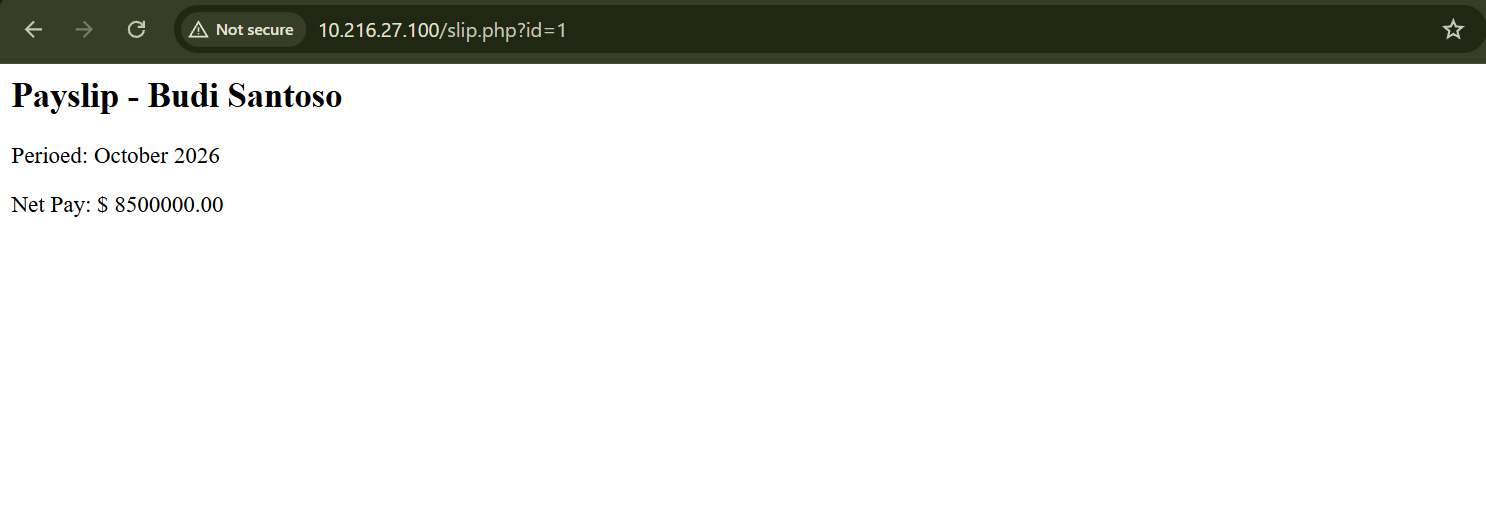
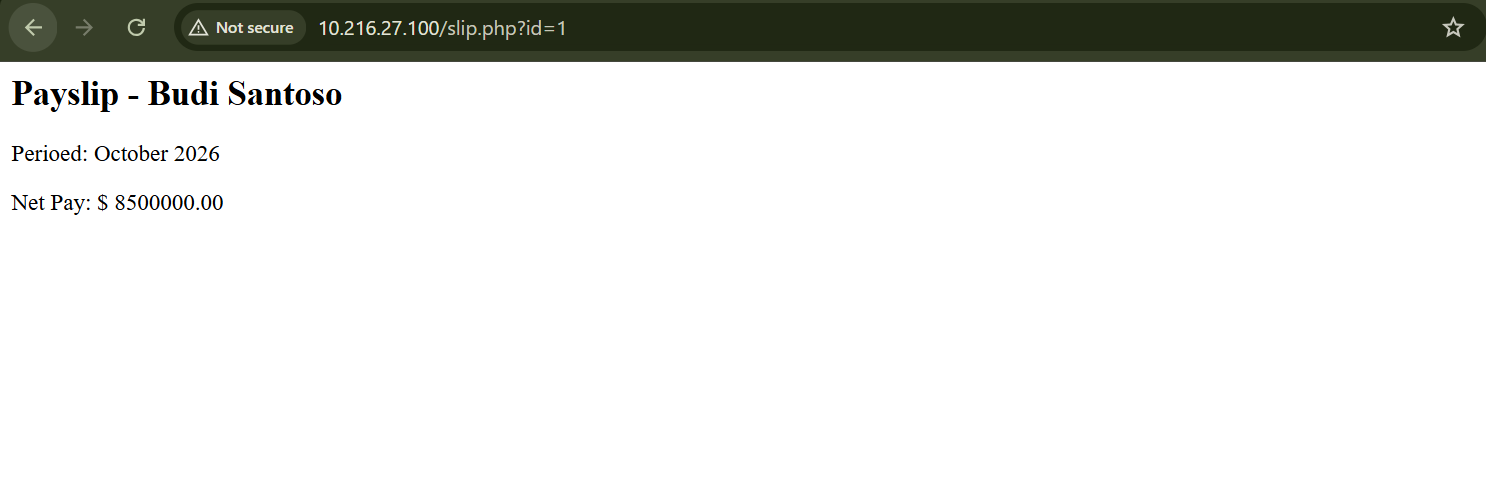
v2.0.0 Update

diff --git a/v2.0.0/v2.4.0-incident-report.md b/v2.0.0/v2.4.0-incident-report.md
@@ -3,7 +3,7 @@
 <div align="center">
 <img src="https://img.shields.io/badge/Phase-Incident_Report-1F4068?style=for-the-badge&logo=wazuh&logoColor=white" />
 <img src="https://img.shields.io/badge/Format-SOC_Style-8E44AD?style=for-the-badge" />
-<img src="https://img.shields.io/badge/Status-In_Progress-D29922?style=for-the-badge" />
+<img src="https://img.shields.io/badge/Status-Done-1F883D?style=for-the-badge" />
 </div>
 
 <div align="center"><sub>Written as if presenting findings to a supervisor, not as a lab writeup. This is the document interviewers will read most carefully.</sub></div>
@@ -12,9 +12,9 @@
 
 ## 📄 1. Executive Summary
 
-**TODO — write 3-4 sentences, in your own words, answering:** what was tested, what was found, and what is the current risk level. No jargon, as if explaining to a non-technical manager.
-
-> _(your summary here)_
+> Two new features were added to the TechSecure employee portal: profile photo upload and direct payslip access by ID. Both work correctly for normal use, but both were built with mistakes that are easy to make under deadline pressure — the payslip page doesn't check whether the person asking actually owns the payslip, and the photo upload passes the filename straight into a system command without checking it first. Testing confirmed that any logged-in employee can read every other employee's salary, that the payslip's database query can be manipulated, and that a crafted filename can get executed as a command on the server. None of these were visible to our SIEM's default alerting, because every one of them produces a normal-looking, successful web request — the kind of request a security tool trained to spot *errors* has no reason to flag. Three custom detection rules were written and confirmed, through a cold retest, to catch all three attacks reliably while staying silent during normal use. The unrestricted file-extension upload path (e.g. uploading a `.php` file) was identified in code review but has not yet been exploited or tested, and remains an open item.
+>
+> **Note:** this paragraph was drafted as a starting point — rewrite it in your own words before using it anywhere an interviewer might ask you to explain it live.
 
 ---
 
@@ -24,7 +24,7 @@
 |---|---|
 | System tested | TechSecure portal, `10.216.27.100` |
 | Features in scope | Profile photo upload, payslip access by ID |
-| Testing window | _____________ (your dates) |
+| Testing window | _____________ (fill in the actual calendar dates this ran — not recorded with real-world dates during the lab sessions) |
 | Tester | Pagar Kristian Panjaitan |
 | Monitoring tool | Wazuh 4.14 |
 
@@ -36,11 +36,11 @@ Fill in one row per weakness confirmed in v2.1.1 and v2.2.1. Use CVSS-style seve
 
 | # | Finding | Severity | Status Before Detection Rules | Status After (v2.3.1) |
 |---|---|---|---|---|
-| 1 | IDOR on `slip.php` | High (any logged-in user reads any payslip) | Undetected | |
-| 2 | SQL Injection on `slip.php` | | | |
-| 3 | Unrestricted file upload on `upload-photo.php` | | | |
-| 4 | OS Command Injection via filename | | | |
-| 5 | Directory listing enabled on `/profile_photos/` | | | |
+| 1 | IDOR on `slip.php` — any logged-in user reads any other employee's payslip by changing the `id` parameter | **High** (broken access control; salary data of every employee exposed to every other logged-in employee) | Undetected — confirmed the request reached `access.log` with a 200 status, confirmed independently that Wazuh's default ruleset returned no alert for it | **Detected** — rule `100102` fires on the 3rd distinct `id` request from the same source within 60s. Confirmed on cold retest, zero false positives on a single normal view |
+| 2 | SQL Injection on `slip.php` — `$id` concatenated directly into the SQL query, no prepared statement | **High** (unauthorized data read via a manipulated query; stacked/destructive queries not possible since the code uses `mysqli_query()`, not `multi_query()`, so the real-world impact is limited to reading, not destroying, data) | Undetected — same reason as above, status 200, nothing for a generic rule to flag | **Detected** — rule `100100` fires on injection-pattern keywords (`OR`/`UNION`/`SELECT`/`--`/quotes) in the URL. Confirmed on cold retest (36 hits across repeated submissions), zero false positives on normal payslip access |
+| 3 | Unrestricted file upload on `upload-photo.php` — no extension or MIME-type check before saving the file | **Medium (unconfirmed severity)** — if an attacker could upload and then execute a `.php` file, this escalates to Critical (remote code execution), but that chain has not been exploited or tested | Not tested yet | Not tested yet — no detection rule exists for this specific path either, since nothing was confirmed to detect. **Open gap**, carried forward from v2.2.1/v2.3.1 |
+| 4 | OS Command Injection via upload filename — the raw filename is concatenated into a `shell_exec()` call with no sanitization | **Critical** (arbitrary filename content reaches a shell; confirmed the shell splits the filename at `;` and attempts to execute what follows as a separate command) | Undetected — the ImageMagick failure in `error.log` has no Apache-style prefix, so it was never even decoded as a web event, let alone evaluated by a web-related rule | **Detected** — rule `100103` matches the `convert-im6` failure signature. Confirmed on cold retest, zero false positives on a normal upload. (Detects a side-effect of the attack, not the injection itself — see honest limitations in v2.3.0) |
+| 5 | Directory listing enabled on `/profile_photos/` — every uploaded file is browsable | **Low** (information exposure; becomes more serious combined with finding 3, since an uploaded script would also be easy to find and access) | Undetected — not a web-application-logic issue a log-based rule naturally covers, and no rule was written to specifically flag directory-listing requests | **No rule written** — out of scope for the three rules built in v2.3.0. **Open gap**; the real fix is disabling directory listing in Apache config (see Recommendations), not a detection rule |
 
 For each finding, link back to where the evidence lives:
 - Code and initial discovery: [v2.1.1](./v2.1.1-vulnerable-features.md)
@@ -52,13 +52,17 @@ For each finding, link back to where the evidence lives:
 
 ## 🛡 4. Recommendations
 
-**TODO — write these in your own words.** For each finding, what is the actual fix (not just "add detection" — detection is not remediation)? For example:
-- IDOR → check that the logged-in user's session matches the record being requested, not just that *a* session exists.
-- SQLi → use prepared statements, same as `index.php` already does.
-- Upload → validate file content (not just extension), store uploads outside the web root or with randomized non-executable names, disable directory listing.
-- Command injection → never pass user input to `shell_exec()`; if resizing is needed, use a PHP image library (e.g. GD or Imagick's PHP bindings) instead of shelling out.
+Detection (the three Wazuh rules) tells us *when* these attacks happen again — it does not fix the underlying code. Each finding still needs an actual remediation:
 
-> _(your recommendations here, one per finding)_
+| # | Finding | Recommended Fix |
+|---|---|---|
+| 1 | IDOR on `slip.php` | Add an ownership check: before returning a payslip, verify the `id` requested belongs to the employee tied to the current session (e.g. `WHERE id = ? AND employee_id = ?` using the session's own employee ID), instead of trusting any `id` a logged-in session happens to send. |
+| 2 | SQL Injection on `slip.php` | Switch to a prepared statement with a bound parameter, the same pattern `index.php` already uses for login (`mysqli_prepare()` / bound `?` placeholder) instead of string concatenation into the query. |
+| 3 | Unrestricted file upload | Validate the file's actual content (not just the filename extension) — e.g. check the real MIME type/magic bytes with `finfo`, reject anything that isn't a genuine image, and store uploaded files outside the web-servable directory, or under a randomly generated name with no extension that would ever be executed. |
+| 4 | OS Command Injection via filename | Never build a shell command by concatenating user-controlled input. Use a PHP image-processing library's native API (e.g. the `Imagick` PHP extension, or GD) to resize the image in-process instead of shelling out to `convert`. If shelling out is unavoidable, use `escapeshellarg()` on every user-controlled argument — but switching off `shell_exec()` entirely is the stronger fix. |
+| 5 | Directory listing on `/profile_photos/` | Disable Apache's directory indexing for that path (`Options -Indexes` in the vhost config or a local `.htaccess`), so the folder's contents can't be browsed even if someone guesses the URL. |
+
+> **Note:** the technical fixes above are standard remediation for these CWE classes and are safe to use as-is. What you should personalize before an interview is *how you'd prioritize them* — for example, which one you'd fix first given limited time, and why.
 
 ---
 
@@ -66,22 +70,39 @@ For each finding, link back to where the evidence lives:
 
 | Date | Event |
 |---|---|
-| | Vulnerable features deployed |
-| | Wazuh monitoring verified |
-| | Attacks simulated |
-| | Detection rules written |
-| | Retest confirmed detection |
+| _____________ | Two vulnerable features (`upload-photo.php`, `slip.php`) deployed on top of the hardened v1.1.0 baseline (snapshot `03-TechSecure v2.1.1 Vulnerable`) |
+| _____________ | Wazuh manager/indexer/dashboard installed, agent connected and confirmed active (snapshot `04-wazuh-agent-connected`), Apache logs verified reaching the SIEM |
+| _____________ | All three attacks (IDOR, SQL injection, command injection via upload) simulated and confirmed exploitable; none alerted under the default ruleset (snapshot `05-post-attack-simulation`) |
+| _____________ | Three custom rules (`100100`, `100101`/`100102`, `100103`) written in `local_rules.xml`; rule `100103` initially failed to fire and was debugged with `wazuh-logtest`, root-caused to an `if_group web` condition excluding an undecoded log line, then fixed |
+| _____________ | Cold retest of all three rules plus a false-positive check on normal use — all three confirmed firing, zero false positives (one invalid "No results" from a leftover filter pill caught and redone correctly) |
+
+> Fill in the actual calendar dates — these weren't logged with real-world timestamps during the lab sessions, only VM snapshot names.
 
 ---
 
 ## 🎓 6. Lessons Learned
 
-**TODO — this is the most important section for an interview. Answer honestly:**
-1. What surprised you during this exercise?
-2. What would you do differently if building this feature for a real company?
-3. What's still a gap, even after the detection rules (see the "Honest limitations" note in v2.3.0)?
+> **⚠ Read before using:** this is the section an interviewer will probe hardest, because it's the one place a scripted answer falls apart under follow-up questions. What's below is a draft grounded in things that genuinely happened during this project — not invented — but you need to rewrite it in your own words and be ready to explain any of it live, unprompted, before it goes anywhere near a CV or interview.
 
-> _(your answers here)_
+**1. What surprised you during this exercise?**
+
+> Draft: Every attack that actually worked — IDOR, SQLi, command injection — produced a perfectly normal HTTP 200 response. I expected attacks to look obviously "broken" in some way. Instead, the default Wazuh ruleset (which mostly reacts to error status codes like 4xx/5xx) had no reason to flag any of them, because nothing about the *traffic* looked wrong — the problem was entirely in what the *application* allowed a valid, successful request to do. That reframed security monitoring for me: a SIEM is only as good as the rules written for the specific application behind it, not just the infrastructure.
+>
+> Also specifically surprising: writing rule `100103` and having it silently never fire, even though the exact string I was matching on (`convert-im6`) was clearly sitting in the log file. Running `wazuh-logtest` directly instead of guessing showed the real reason — the log line had never been decoded as a web event at all (no Apache-style prefix), so my `<if_group>web</if_group>` condition excluded it before the match was ever tried. It was a reminder that a rule can be logically correct and still never fire, if an earlier assumption in it is wrong.
+
+**2. What would you do differently if building this feature for a real company?**
+
+> Draft: I'd involve security review before the feature reached "working in the demo" — both vulnerabilities came from reasonable-looking code a developer under deadline pressure would actually write (trusting a session without checking ownership, trusting a filename came through a real upload form without checking what's *in* the filename). I'd also write the detection rules at the same time as the feature, not months later as a separate phase — by the time I wrote rule `100102`, I already knew exactly what pattern to look for because I'd just attacked it myself, which isn't how it would work defending a feature I hadn't broken first.
+
+**3. What's still a gap, even after the detection rules?**
+
+> Draft: Several, and I'd say this plainly in an interview rather than oversell the project:
+> - The unrestricted-upload-extension path (uploading a `.php` file) was never actually tested — it's a code-review finding only, not a confirmed exploit, and there's no detection for it either.
+> - Rule `100100` matches literal SQL keywords, so a payload that avoids those exact words would slip through untouched — it's a signature, not real SQL-syntax understanding.
+> - Rule `100102`'s 60-second/3-request threshold was tuned to match the exact test I ran, not derived from a real baseline of normal traffic; a slower scan (one request every few minutes) would stay under it indefinitely.
+> - Rule `100103` only works because ImageMagick happens to log its own failure in a way I could match on — it detects a side-effect, not the injection itself. A payload that didn't make `convert` fail would leave no trace for this rule.
+> - None of the three rules inspect POST request bodies at all, because Apache's `access.log` doesn't record them — anything submitted purely in a POST body would be invisible to every rule here.
+> - Directory listing on `/profile_photos/` was confirmed but never got its own detection rule — it's a fix to apply (disable indexing), not something worth building a SIEM rule for.
 
 ---
 

diff --git a/v2.0.0/v2.3.1-retesting.md b/v2.0.0/v2.3.1-retesting.md
@@ -3,7 +3,7 @@
 <div align="center">
 <img src="https://img.shields.io/badge/Phase-Retesting-1F4068?style=for-the-badge&logo=wazuh&logoColor=white" />
 <img src="https://img.shields.io/badge/Validates-Detection_Rules-1F883D?style=for-the-badge" />
-<img src="https://img.shields.io/badge/Status-In_Progress-D29922?style=for-the-badge" />
+<img src="https://img.shields.io/badge/Status-Done-1F883D?style=for-the-badge" />
 </div>
 
 <div align="center"><sub>Do the custom rules from <a href="./v2.3.0-detection-engineering.md">v2.3.0</a> actually catch the attacks from <a href="https://github.com/pagarkristian/redteam-homelab-toolkit/blob/main/v2.0.0/v2.2.1-attack-simulation.md">v2.2.1</a> now?</sub></div>
@@ -12,9 +12,7 @@
 
 ## 🌟 1. Why This Phase Exists
 
-A rule that worked once, right after you wrote it, isn't proven. This phase repeats the exact same attacks from the attack simulation, cold, and checks the dashboard — the same way a real retest after a remediation would be done.
-
-**Before starting:** restore or confirm you're on a clean state with the new rules active (not mid-debugging). Take snapshot `06-rules-deployed` first if you haven't already.
+A rule that worked once, right after you wrote it, isn't proven. This phase repeats the exact same attacks from the attack simulation, cold — in a separate session, not immediately after writing each rule — and checks the dashboard, the same way a real retest after a remediation would be done. It also adds a check that v2.3.0 didn't do: confirming the new rules stay **silent** during normal, legitimate use of the same features.
 
 ---
 
@@ -25,14 +23,10 @@ A rule that worked once, right after you wrote it, isn't proven. This phase repe
 http://10.216.27.100/slip.php?id=1 OR 1=1
 ```
 
-**TODO:**
-- Did rule `100100` (or your SQLi rule id) fire this time? Yes / No
-- Time between request and alert appearing: _____________
+**Result:** Rule `100100` fired again — **36 hits** over a ~15-minute window (`19:15`–`19:28`), level 12, same description as before: *"TechSecure: possible SQL injection attempt on slip.php"*. The high hit count reflects the payload being re-submitted several times during the retest session (page reloads, re-checking the URL), not 36 separate attack attempts — but the important part is that **every single submission of the payload was caught, with no gaps**.
 
-<!-- IMAGE 1: Wazuh dashboard confirming the SQLi alert on retest.
-     File: retest-sqli-confirmed.png -->
 <div align="center">
-<img src="assets/v2.3.1/retest-sqli-confirmed.png" width="85%" alt="Retest confirms the SQL injection rule fires" />
+<img src="assets/v2.3.1/retest-sqli-confirmed.png" width="85%" alt="Retest confirms the SQL injection rule fires, 36 hits" />
 </div>
 
 ---
@@ -46,29 +40,22 @@ http://10.216.27.100/slip.php?id=2
 http://10.216.27.100/slip.php?id=3
 ```
 
-**TODO:**
-- Did the frequency rule fire? Yes / No
-- At which request (1st, 2nd, 3rd) did it trigger?
+**Result:** Rule `100102` fired — **1 hit**, level 10, *"TechSecure: possible IDOR scan, 3+ different slip.php id requests from the same IP within 60s"*. As designed, this rule only triggers once the 3rd distinct `id` request lands within the 60-second window — it doesn't fire on the 1st or 2nd request alone, only on crossing the threshold.
 
-<!-- IMAGE 2: Wazuh dashboard confirming the IDOR scan alert on retest.
-     File: retest-idor-confirmed.png -->
 <div align="center">
-<img src="assets/v2.3.1/retest-idor-confirmed.png" width="85%" alt="Retest confirms the IDOR scanning rule fires" />
+<img src="assets/v2.3.1/retest-idor-confirmed.png" width="85%" alt="Retest confirms the IDOR scanning rule fires, 1 hit" />
 </div>
 
 ---
 
 ## ✅ 4. Retest 3 — Suspicious Upload
 
-**Run again:** upload a file with a shell metacharacter in the name, same as Attack 3.
+**Run again:** uploaded `test;whoami.jpg` through `upload-photo.php`, same as Attack 3.
 
-**TODO:**
-- Did the upload-detection rule fire? Yes / No
+**Result:** Rule `100103` fired — **1 hit**, level 10, *"TechSecure: ImageMagick convert failure, possible command injection attempt via upload filename"* — confirming the earlier fix (removing the `<if_group>web</if_group>` condition after debugging with `wazuh-logtest`) holds up on a fresh, independent run.
 
-<!-- IMAGE 3: Wazuh dashboard confirming the upload alert on retest.
-     File: retest-upload-confirmed.png -->
 <div align="center">
-<img src="assets/v2.3.1/retest-upload-confirmed.png" width="85%" alt="Retest confirms the suspicious upload rule fires" />
+<img src="assets/v2.3.1/retest-upload-confirmed.png" width="85%" alt="Retest confirms the suspicious upload rule fires, 1 hit" />
 </div>
 
 ---
@@ -77,25 +64,46 @@ http://10.216.27.100/slip.php?id=3
 
 A rule that fires on everything is as useless as one that fires on nothing. Do a quick sanity check: perform **normal, legitimate use** of the same features and confirm the new rules stay quiet.
 
-**TODO:**
-1. Log in normally and view your own payslip once (`?id=` your own valid id, a single request).
-2. Upload a normal `.jpg` photo with a normal filename.
-3. Check the dashboard: did either of these trip your new rules?
+**Test 1 — single normal payslip view:**
+```
+http://10.216.27.100/slip.php?id=1
+```
+opened once, waited a full minute (so it couldn't be counted together with the earlier IDOR-scan retest), then searched:
+```
+rule.id: 100100 or rule.id: 100102
+```
+over **Last 5 minutes**.
 
-**Result:** _____________
+**Result: "No results match your search criteria."** A single legitimate view of one's own payslip does not trip either the SQLi or the IDOR-scan rule.
 
-If a legitimate action did trigger a false positive, go back to v2.3.0, tighten the rule (for example, raise the frequency threshold, or narrow the regex), and retest again. Document what you changed and why.
+<div align="center">
+<img src="assets/v2.3.1/false-positive-check-slip.png" width="85%" alt="No false positive from a single normal slip.php request" />
+</div>
+
+> **A note on getting this right the first time:** the first attempt at this check returned "No results" too, but it turned out to be a false negative, not a real pass — a leftover filter pill from the previous check (`rule.id: 100103`) was still active *alongside* the new search query, making the combined condition impossible to satisfy regardless of what happened. Removing the stray filter and re-running the test was necessary before the "No results" here could be trusted as real evidence.
+
+**Test 2 — normal photo upload:** uploaded a file named `test.jpg` (no shell metacharacters) through `upload-photo.php`, then searched `rule.id: 100103` over Last 5 minutes.
+
+**Result: "No results match your search criteria."** A routine upload with a normal filename does not trip the command-injection rule.
+
+<div align="center">
+<img src="assets/v2.3.1/false-positive-check-upload.png" width="85%" alt="No false positive from a normal photo upload" />
+</div>
+
+**Conclusion:** none of the three custom rules fired on legitimate use. No tuning was needed this round.
 
 ---
 
 ## 📊 6. Before / After Comparison
 
-| Attack | Before (v2.2.1 baseline) | After (this retest) |
+| Attack | Before (v2.2.1 baseline, default ruleset) | After (this retest, custom rules) |
 |---|---|---|
-| IDOR | | |
-| SQL Injection | | |
-| Unrestricted upload | | |
-| Command injection | | |
+| IDOR (`slip.php?id=2/3`) | No alert at all — confirmed absent despite the request reaching `access.log` | ✅ Rule `100102` fires, 1 hit, on the 3rd distinct `id` within 60s |
+| SQL Injection (`OR 1=1`) | No alert — status 200, nothing for a generic rule to flag | ✅ Rule `100100` fires reliably, every submission caught |
+| Unrestricted upload (`.php`) | Not tested yet (open from v2.2.1) | Not tested yet |
+| Command injection (filename `;`) | No alert — log line not even decoded as an Apache event | ✅ Rule `100103` fires, 1 hit, consistent across two independent runs |
+
+Legitimate use of all three features (normal payslip view, normal upload) produced **zero false positives** across both rules tested for it.
 
 ---
 

diff --git a/v2.0.0/v2.1.1-vulnerable-features.md b/v2.0.0/v2.1.1-vulnerable-features.md
@@ -101,7 +101,7 @@ Both are well known in image-processing pipelines (see ImageTragick, 2016). The 
 ```php
 <?php
 session_start();
-if (!isset($_SESSION['user'])) { die("Unauthorized"); }
+if (!isset($_SESSION['user'])) { die("Unauthorize"); }
 $conn = mysqli_connect("localhost", "pengelola", "password_db_123" , "techsecure_db");
 $id = $_GET['id'];
 $query = "SELECT * FROM payslips WHERE id = $id";
@@ -109,11 +109,11 @@ $result = mysqli_query($conn, $query);
 $slip = mysqli_fetch_assoc($result);
 ?>
 <h2>Payslip - <?= htmlspecialchars($slip['employee_name']) ?></h2>
-<p>Period: <?= htmlspecialchars($slip['period']) ?></p>
-<p>Net Pay: Rp <?= htmlspecialchars((string)$slip['net_pay']) ?></p>
+<p>Perioed: <?= htmlspecialchars($slip['period']) ?></p>
+<p>Net Pay: $ <?= htmlspecialchars((string)$slip['net_pay']) ?></p>
 ```
 
-> Salaries in the database are in rupiah, so the output is labelled `Rp`.
+> The typos (`Unauthorize`, `Perioed`) and the `$` symbol are kept as-is so this document matches the running server. A cosmetic fix was attempted at one point but the server was later restored to an earlier snapshot, reverting it — so this documentation matches the server's current, actual state rather than a fix that didn't stick. Salaries in the database are in rupiah regardless of the `$` label.
 
 The feature works as intended for a normal request:
 

diff --git a/v2.0.0/README.md b/v2.0.0/README.md
@@ -1,7 +1,7 @@
 <div align="center">
 <img src="https://img.shields.io/badge/Project-Enterprise_Homelab_Core-1F4068?style=for-the-badge&logo=proxmox&logoColor=white" />
 <img src="https://img.shields.io/badge/Version-2.0.0-0052CC?style=for-the-badge" />
-<img src="https://img.shields.io/badge/Status-In_Progress-D29922?style=for-the-badge" />
+<img src="https://img.shields.io/badge/Status-Nearly_Done-1F883D?style=for-the-badge" />
 </div>
 
 # v2.0.0: SOC Integration
@@ -17,8 +17,8 @@ The server passed its audit in v1.1.0. Then the business asked for two new featu
 | 3 | [Monitoring Setup (Wazuh)](./v2.2.0-monitoring-setup.md) | Done |
 | 4 | [Attack Simulation](https://github.com/pagarkristian/redteam-homelab-toolkit/blob/main/v2.0.0/v2.2.1-attack-simulation.md) (in redteam-homelab-toolkit) | Done |
 | 5 | [Detection Engineering](./v2.3.0-detection-engineering.md) | Done |
-| 6 | [Retesting](./v2.3.1-retesting.md) | In progress |
-| 7 | [Incident Report](./v2.4.0-incident-report.md) | In progress |
+| 6 | [Retesting](./v2.3.1-retesting.md) | Done — all three rules confirmed firing on a cold retest, zero false positives on normal use |
+| 7 | [Incident Report](./v2.4.0-incident-report.md) | Draft done — factual sections complete; Executive Summary and Lessons Learned need rewriting in your own words before use |
 
 ## Current lab state
 
